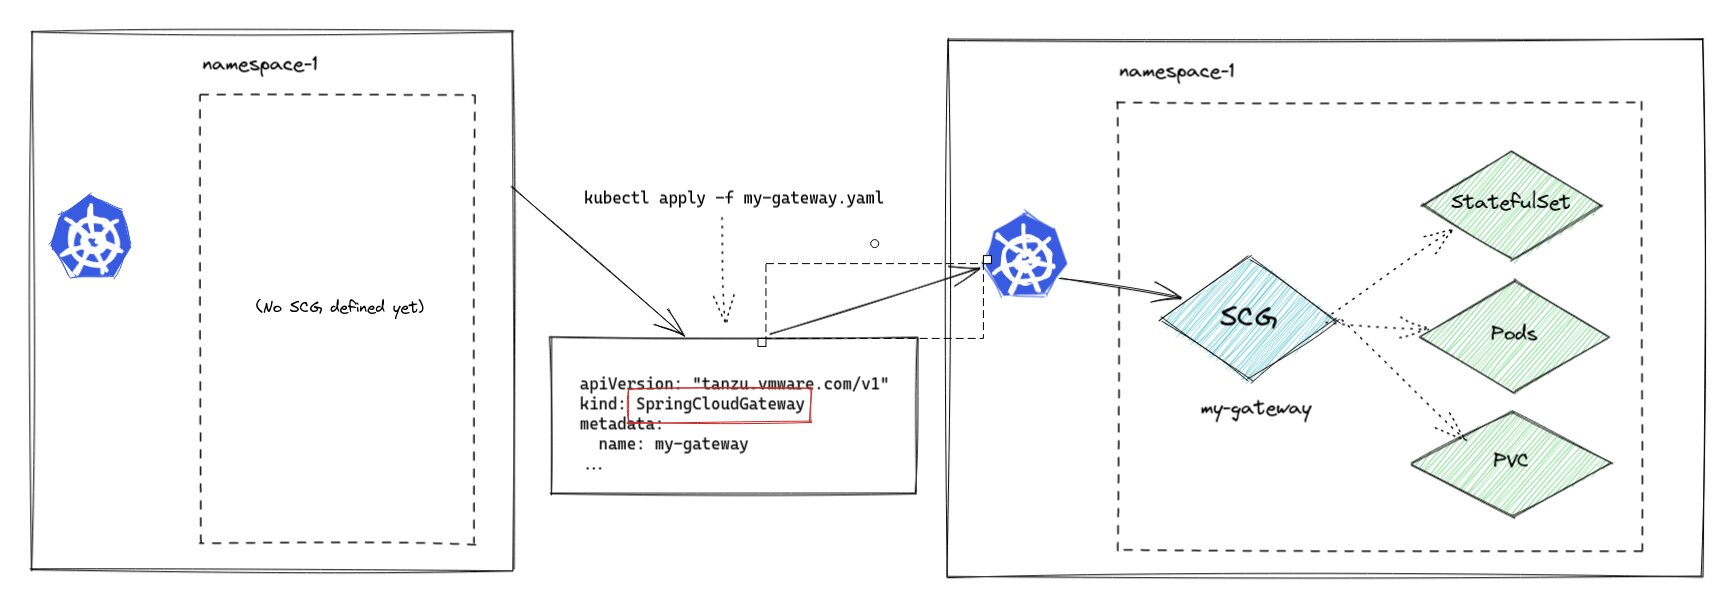
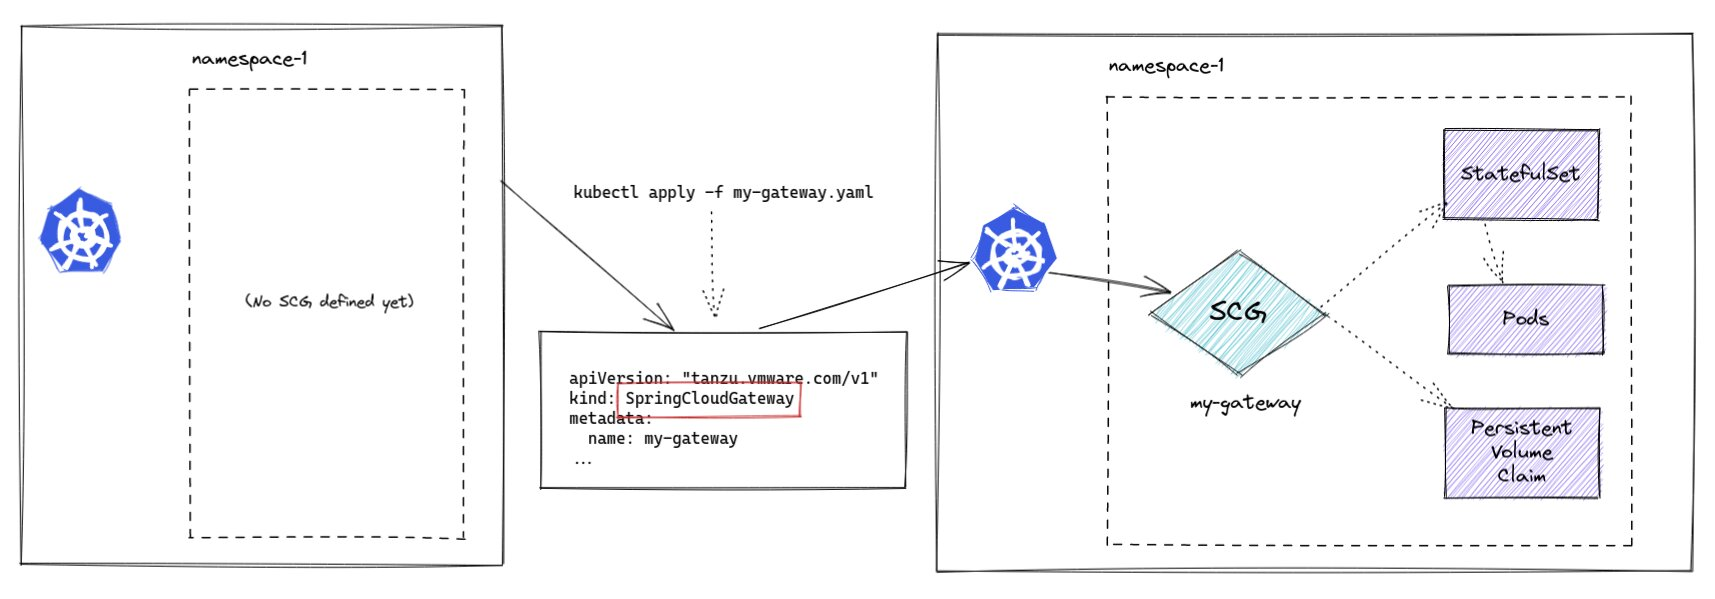
update images

diff --git a/workshop/content/exercises/define-gateway-instance.md b/workshop/content/exercises/define-gateway-instance.md
@@ -1,12 +1,12 @@
-We start out with an empty namespace. We have not created anything in this namespace, and our goal for the first section is to create an instance of Spring Cloud Gateway. The way we will do this is by asking Kubernetes to do it for us by using the Kubernetes API, and the "Custom Resource Defitions" that have been added to the Kubernetes cluster when SCG4K8S was installed.
+We start out with an empty namespace. We have not created anything in this namespace, and our goal for the first section is to create an instance of Spring Cloud Gateway. The way we will do this is by asking Kubernetes to do it for us by using the "Custom Resource Definitions" that have been added to the Kubernetes cluster when Spring Cloud Gateway for Kubernets (SCG4K8S) was installed.
 
-We could have as many SCG instances as makes sense for our organization, we are not limited to a single instance. For the purposes of this workshop, each user will create a single SCG instance.
+We could have as many Spring Cloud Gateway (SCG) instances as makes sense for our organization. We are not limited to a single instance. For the purposes of this workshop, each user will create a single SCG instance.
+
+![SCG4K8S](images/define-scg1.jpg)
 
 ### Validate the Namespace is Empty
 
-To start, there will be no springcloudgateways (scg), pods, or stateful sets in the session. Once we apply the Kubernetes manifest, the SCG4K8S operator will build one for us. That way the entire life cycle of the SCG instances will be manged for us!
-
-![SCG4K8S](images/define-scg1.jpg)
+To start, there will be no springcloudgateways, pods, or stateful sets in the namespace. However, once we apply the Kubernetes manifest, the SCG4K8S operator will build one for us. That way the entire life cycle of the SCG instances will be manged for us!
 
 No SpringCloudGateway, no pods, no persistent volume claims exist (yet).
 

diff --git a/workshop/content/exercises/add-route-and-mapping.md b/workshop/content/exercises/add-route-and-mapping.md
@@ -1,6 +1,6 @@
-In order to configure SCG to manage a microservice or API, we have to tell it what routes to manage. We do that by creating a route and then mapping that route to a particular Spring Cloud Gateway. Once the route and mapping are configured, the particular SCG instance will then direct requests to those routes to a particular service, and also apply configured filters and such to the routes.
+In order to configure SCG to manage a microservice or API, we have to tell it what routes to manage. We do that by creating a route and then mapping that route to a particular Spring Cloud Gateway. Once the route and mapping are configured, the particular SCG instance will then direct requests to those routes to a particular service, and also apply configured filters and transformations to the routes.
 
-In this section we'll add a route and mapping to the existing gateway. That route will be configured to send traffic directed at sct/routed to httpbin.org.
+In this section we'll add a route and mapping to the existing gateway. That route will be configured to send traffic directed at "scg/routed" to httpbin.org.
 
 ![route and mapping diagram](images/route-mapping1.jpg)
 

diff --git a/workshop/content/exercises/strangler-fig.md b/workshop/content/exercises/strangler-fig.md
@@ -1,24 +1,6 @@
-### Route Predicates
 
-SCG has a feature called [route predicates](https://cloud.spring.io/spring-cloud-gateway/reference/html/#gateway-request-predicates-factories).
 
-Examples of ways to implement route predicates:
-
-* After (time)
-* Before (time)
-* Between (time)
-* Cookie 
-* Header 
-* Host 
-* Method 
-* Path 
-* Query 
-* RemoteAddr 
-* Weight
-
-These route predicates allow us to manage the traffic going to the various APIs managed by the SCG. We'll use weights to manage API resources.
-
-### Background
+![strangler fig pattern - weighted routes](images/strangler-fig1.jpg)
 
 For the purposes of this section, let's assume Acme Co. has a monolithic application that exposes an API and they want to incrementally break apart this monolithic app following the [strangler fig](https://martinfowler.com/bliki/StranglerFigApplication.html) pattern. 
 

diff --git a/workshop/content/exercises/circuit-breaker.md b/workshop/content/exercises/circuit-breaker.md
@@ -2,6 +2,7 @@
 
 ![circuit breaker](images/circuit-breaker1.jpg)
 
+In this section we'l configure a circuit breaker, and then add a fallback to that circuit breaker.
 
 ### Configure a Circuit Breaker
 
